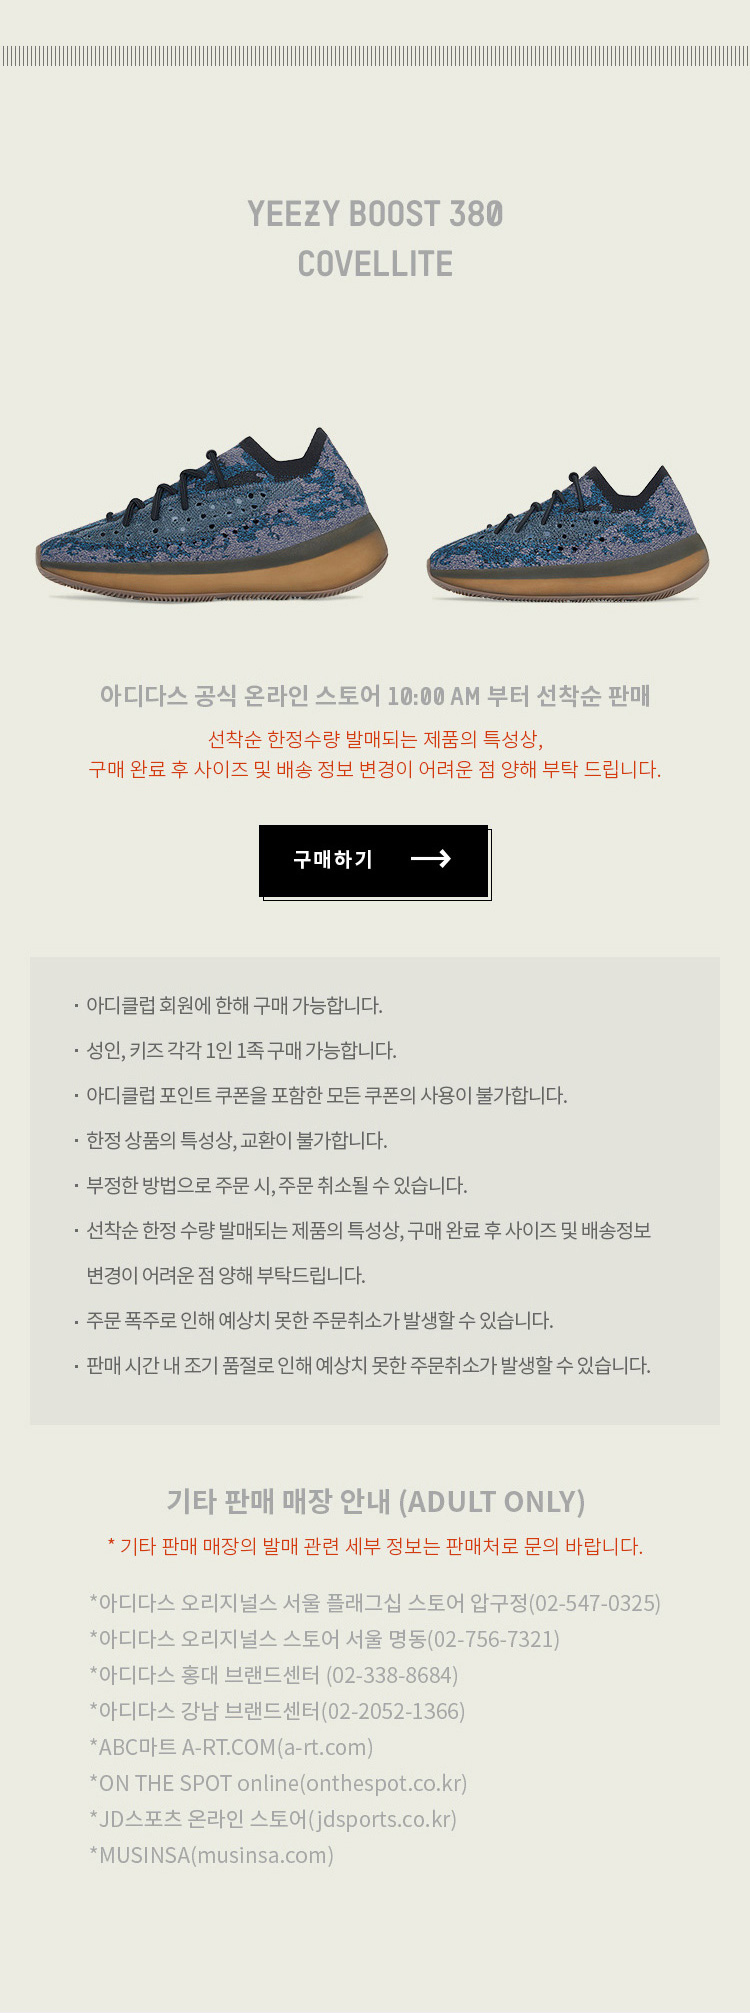
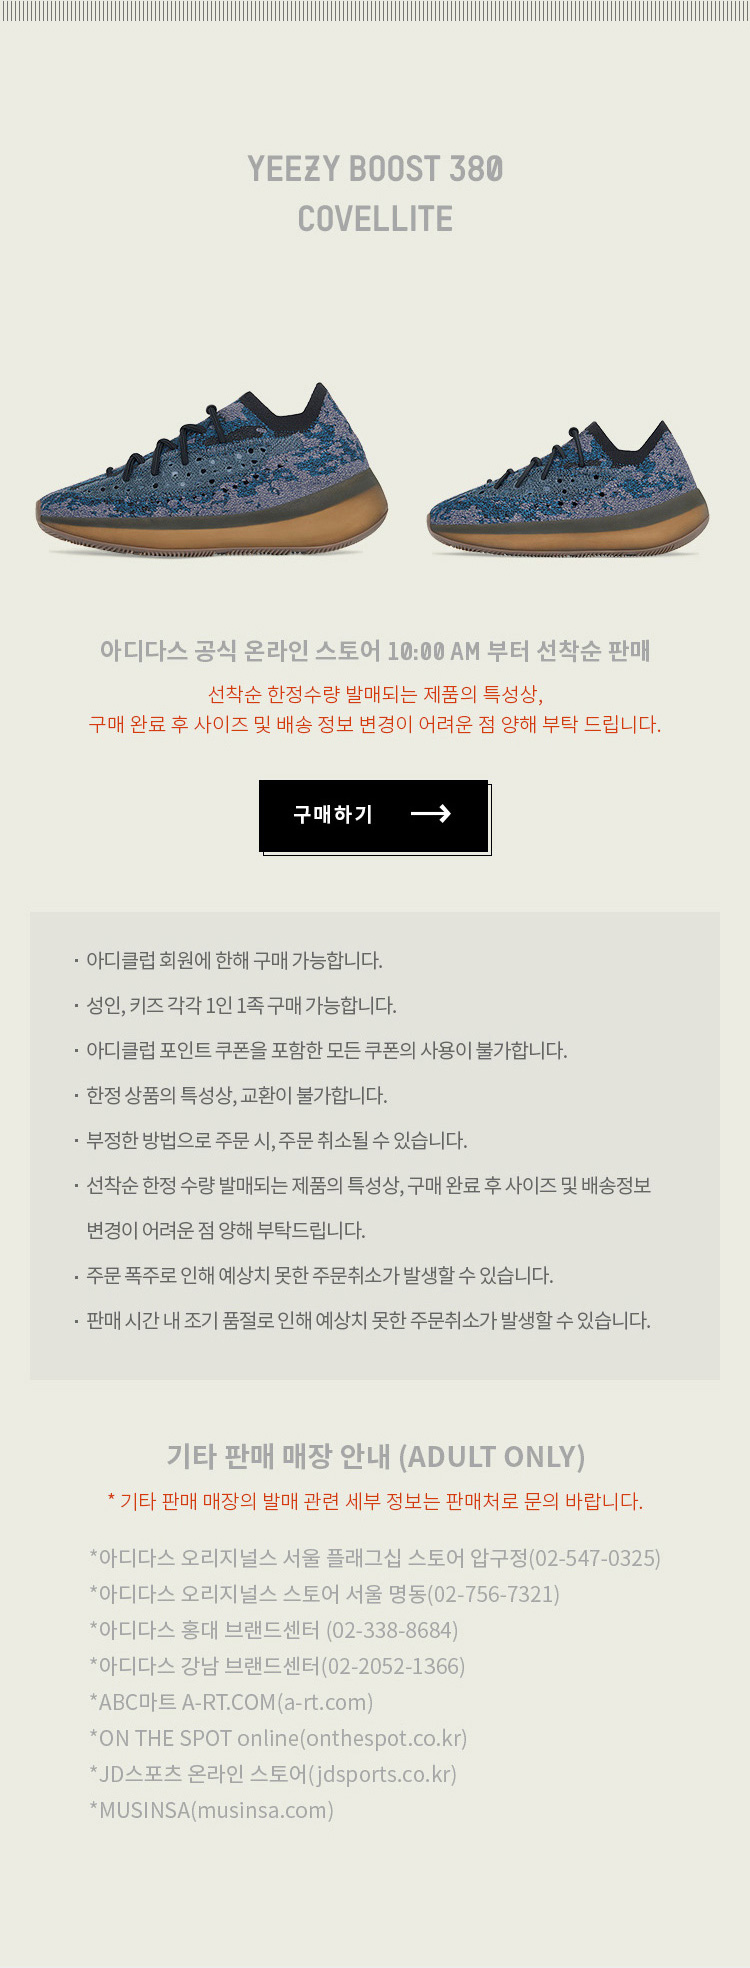
이지인포3

diff --git a/mobile/html/adidas/pn/YEEZY_INFORMATION.html b/mobile/html/adidas/pn/YEEZY_INFORMATION.html
@@ -20,7 +20,7 @@
                             <div class="visual">
                                 <div id="raffle01">
                                     <img src="/images/adidas/2021/event/yeezy_information/0325/210325_a_yeezy_MO_01_02.jpg" alt="">
-                                    <a href="https://m.adidas.co.kr/MO/Event/closeTemplate.action?pn=GV7904"
+                                    <a href="https://m.adidas.co.kr/MO/Event/closeTemplate.action?pn=GV7904" 
                                         style="position: absolute;top: 83.3%;left: 0%;width: 100%;height: 4.3%;z-index: 1;text-indent: -3000px;"
                                         campaign-label="응모하기">응모하기</a>
                                     <a href="https://m.adidas.co.kr/MO/Event/closeTemplate.action?pn=FY4567"
@@ -33,10 +33,10 @@
                                 <div id="raffle02">
                                     <img src="/images/adidas/2021/event/yeezy_information/0325/210325_a_yeezy_MO_01_03_3.jpg" alt="">
                                     <a href="https://m.adidas.co.kr/MO/Event/closeTemplate.action?pn=700v3"
-                                        style="position: absolute;top: 85.1%;left: 0%;width: 100%;height: 2.4%;z-index: 1;text-indent: -3000px;"
+                                        style="position: absolute;top: 84%;left: 0%;width: 100%;height: 2.4%;z-index: 1;text-indent: -3000px;"
                                         campaign-label="응모하기">응모하기</a>                        
                                     <a href="https://m.adidas.co.kr/MO/Promotion/landingPage.action?NFN_ST=Y&pageNo=1315"
-                                        style="position: absolute;top: 88.7%;left: 0%;width: 100%;height: 2.4%;z-index: 1;text-indent: -3000px;"
+                                        style="position: absolute;top: 87.4%;left: 0%;width: 100%;height: 2.4%;z-index: 1;text-indent: -3000px;"
                                         campaign-label="구매하기">구매하기</a>
                                 </div>
                             </div>                                
@@ -45,7 +45,7 @@
                                 <div id="raffle03">
                                     <img src="/images/adidas/2021/event/yeezy_information/0325/210325_a_yeezy_MO_01_04_4.jpg" alt="">
                                     <a href="https://m.adidas.co.kr/MO/Promotion/landingPage.action?NFN_ST=Y&pageNo=1315"
-                                        style="position: absolute;top: 41%;left: 0%;width: 100%;height: 4%;z-index: 1;text-indent: -3000px;"
+                                        style="position: absolute;top: 39.7%;left: 0%;width: 100%;height: 4%;z-index: 1;text-indent: -3000px;"
                                         campaign-label="구매하기">구매하기</a>
                                 </div>
                             </div>                                

diff --git a/mobile/html/adidas/2021/event/yeezy_information/build/index.html b/mobile/html/adidas/2021/event/yeezy_information/build/index.html
@@ -54,7 +54,7 @@
                 <div class="visual">
                     <div id="raffle01">
                         <img src="/images/adidas/2021/event/yeezy_information/0325/210325_a_yeezy_MO_01_02.jpg" alt="">
-                        <a href="https://m.adidas.co.kr/MO/Event/closeTemplate.action?pn=GV7904"
+                        <a href="https://m.adidas.co.kr/MO/Event/closeTemplate.action?pn=GV7904" 
                             style="position: absolute;top: 83.3%;left: 0%;width: 100%;height: 4.3%;z-index: 1;text-indent: -3000px;"
                             campaign-label="응모하기">응모하기</a>
                         <a href="https://m.adidas.co.kr/MO/Event/closeTemplate.action?pn=FY4567"
@@ -67,10 +67,10 @@
                     <div id="raffle02">
                         <img src="/images/adidas/2021/event/yeezy_information/0325/210325_a_yeezy_MO_01_03_3.jpg" alt="">
                         <a href="https://m.adidas.co.kr/MO/Event/closeTemplate.action?pn=700v3"
-                            style="position: absolute;top: 85.1%;left: 0%;width: 100%;height: 2.4%;z-index: 1;text-indent: -3000px;"
+                            style="position: absolute;top: 84%;left: 0%;width: 100%;height: 2.4%;z-index: 1;text-indent: -3000px;"
                             campaign-label="응모하기">응모하기</a>                        
                         <a href="https://m.adidas.co.kr/MO/Promotion/landingPage.action?NFN_ST=Y&pageNo=1315"
-                            style="position: absolute;top: 88.7%;left: 0%;width: 100%;height: 2.4%;z-index: 1;text-indent: -3000px;"
+                            style="position: absolute;top: 87.4%;left: 0%;width: 100%;height: 2.4%;z-index: 1;text-indent: -3000px;"
                             campaign-label="구매하기">구매하기</a>
                     </div>
                 </div>                                
@@ -79,7 +79,7 @@
                     <div id="raffle03">
                         <img src="/images/adidas/2021/event/yeezy_information/0325/210325_a_yeezy_MO_01_04_4.jpg" alt="">
                         <a href="https://m.adidas.co.kr/MO/Promotion/landingPage.action?NFN_ST=Y&pageNo=1315"
-                            style="position: absolute;top: 41%;left: 0%;width: 100%;height: 4%;z-index: 1;text-indent: -3000px;"
+                            style="position: absolute;top: 39.7%;left: 0%;width: 100%;height: 4%;z-index: 1;text-indent: -3000px;"
                             campaign-label="구매하기">구매하기</a>
                     </div>
                 </div>                                

diff --git a/mobile/html/adidas/2021/event/yeezy_information/index.html b/mobile/html/adidas/2021/event/yeezy_information/index.html
@@ -52,7 +52,7 @@
                 <div class="visual">
                     <div id="raffle01">
                         <img src="/images/adidas/2021/event/yeezy_information/0325/210325_a_yeezy_MO_01_02.jpg" alt="">
-                        <a href="https://m.adidas.co.kr/MO/Event/closeTemplate.action?pn=GV7904"
+                        <a href="https://m.adidas.co.kr/MO/Event/closeTemplate.action?pn=GV7904" 
                             style="position: absolute;top: 83.3%;left: 0%;width: 100%;height: 4.3%;z-index: 1;text-indent: -3000px;"
                             campaign-label="응모하기">응모하기</a>
                         <a href="https://m.adidas.co.kr/MO/Event/closeTemplate.action?pn=FY4567"
@@ -65,10 +65,10 @@
                     <div id="raffle02">
                         <img src="/images/adidas/2021/event/yeezy_information/0325/210325_a_yeezy_MO_01_03_3.jpg" alt="">
                         <a href="https://m.adidas.co.kr/MO/Event/closeTemplate.action?pn=700v3"
-                            style="position: absolute;top: 85.1%;left: 0%;width: 100%;height: 2.4%;z-index: 1;text-indent: -3000px;"
+                            style="position: absolute;top: 84%;left: 0%;width: 100%;height: 2.4%;z-index: 1;text-indent: -3000px;"
                             campaign-label="응모하기">응모하기</a>                        
                         <a href="https://m.adidas.co.kr/MO/Promotion/landingPage.action?NFN_ST=Y&pageNo=1315"
-                            style="position: absolute;top: 88.7%;left: 0%;width: 100%;height: 2.4%;z-index: 1;text-indent: -3000px;"
+                            style="position: absolute;top: 87.4%;left: 0%;width: 100%;height: 2.4%;z-index: 1;text-indent: -3000px;"
                             campaign-label="구매하기">구매하기</a>
                     </div>
                 </div>                                
@@ -77,7 +77,7 @@
                     <div id="raffle03">
                         <img src="/images/adidas/2021/event/yeezy_information/0325/210325_a_yeezy_MO_01_04_4.jpg" alt="">
                         <a href="https://m.adidas.co.kr/MO/Promotion/landingPage.action?NFN_ST=Y&pageNo=1315"
-                            style="position: absolute;top: 41%;left: 0%;width: 100%;height: 4%;z-index: 1;text-indent: -3000px;"
+                            style="position: absolute;top: 39.7%;left: 0%;width: 100%;height: 4%;z-index: 1;text-indent: -3000px;"
                             campaign-label="구매하기">구매하기</a>
                     </div>
                 </div>                                
